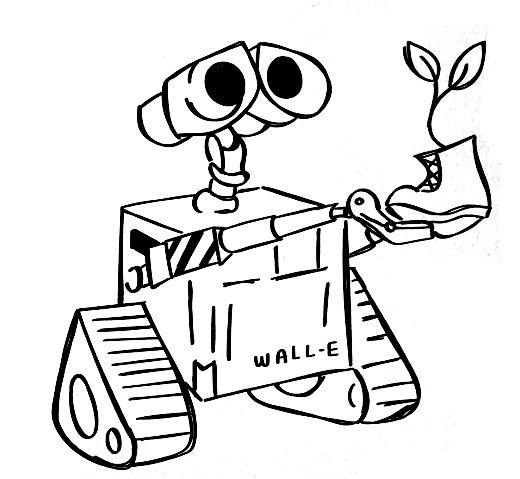
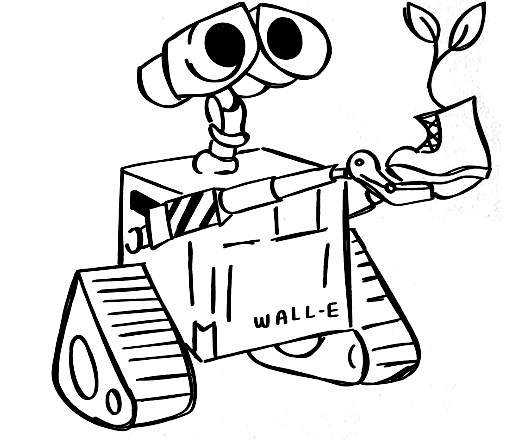
heading and navbar fixed issues

Changed region(s): [[0.0923, 0.0, 0.9538, 1.0]]

diff --git a/app/(marketing)/_components/heading.tsx b/app/(marketing)/_components/heading.tsx
@@ -7,7 +7,7 @@ import { Button } from "@/components/ui/button";
 
 const Heading = () => {
   return (
-    <div className="max-x-3xl space-y-4">
+    <div className="max-x-3xl space-y-4 -mt-4 md:-mt-6">
       <h1 className="text-3xl sm:text-5xl md:text-6xl font-bold">
         Your Ideas, Documents, & Plans. <br />
         Unified. Welcome to <span className="underline">Wall-E AI</span>

diff --git a/app/(marketing)/_components/navbar.tsx b/app/(marketing)/_components/navbar.tsx
@@ -14,7 +14,7 @@ const Navbar = () => {
   return (
     <div
       className={cn(
-        "z-50 bg-background dark:bg-[#1F1F1F] fixed top-0 flex items-center w-full p-6",
+        "z-20 bg-background dark:bg-[#1F1F1F] fixed top-0 flex items-center w-full px-6 py-3",
         scrolled && "border-b shadow-sm",
       )}
     >

diff --git a/app/(marketing)/_components/heroes.tsx b/app/(marketing)/_components/heroes.tsx
@@ -3,7 +3,7 @@ const Heroes = () => {
   return (
     <div
       className="flex flex-col items-center justify-center
-  max-w-5xl"
+  max-w-5xl -mt-4 md:-mt-6"
     >
       <div className="flex items-center justify-center">
         <div className="relative h-[400px] w-[400px]">
